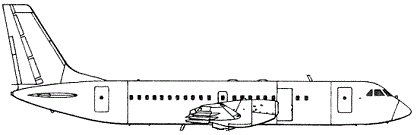
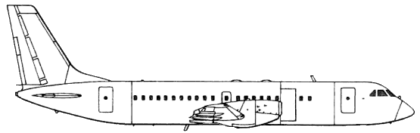
il114 sprite fix

Changed region(s): [[0.0, 0.0301, 0.9905, 0.9925]]

diff --git a/shilka2/Aircrafts.cs b/shilka2/Aircrafts.cs
@@ -1545,19 +1545,18 @@ namespace shilka2
             new AircraftsType {
                 aircraftType = "il114",
                 aircraftName = "Ил-114",
-                size = new int[] { 420, 135 },
+                size = new int[] { 420, 133 },
                 speed = 5,
                 minAltitude = minAltitudeForLargeAircraft,
                 cantEscape = true,
                 airliner = true,
                 elements = new List<DynamicElement> {
                     new DynamicElement {
-                        elementName = "ltl_prop",
-                        y = 78,
-                        x_left = 131,
-                        x_right = 275,
+                        elementName = "air_prop",
+                        y = 62,
+                        x_left = 118,
+                        x_right = 279,
                         movingType = DynamicElement.MovingType.yRotate,
-                        mirror = true
                     }
                 }
             },
